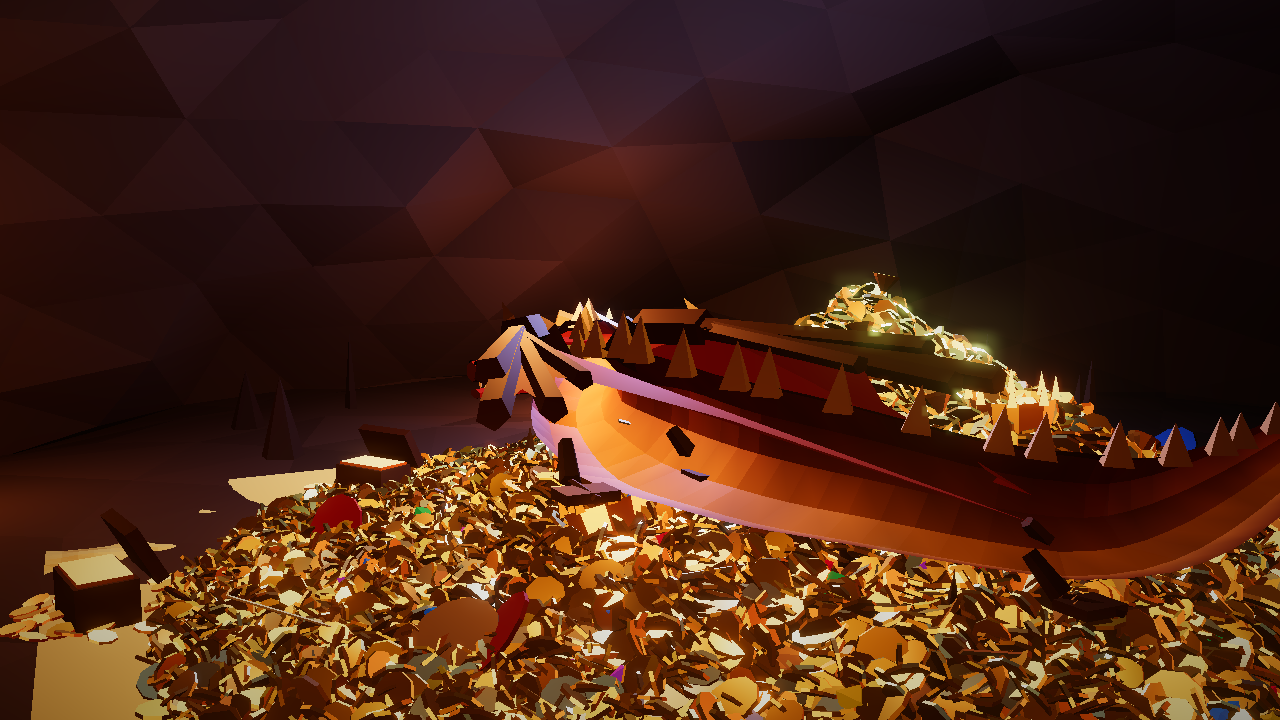
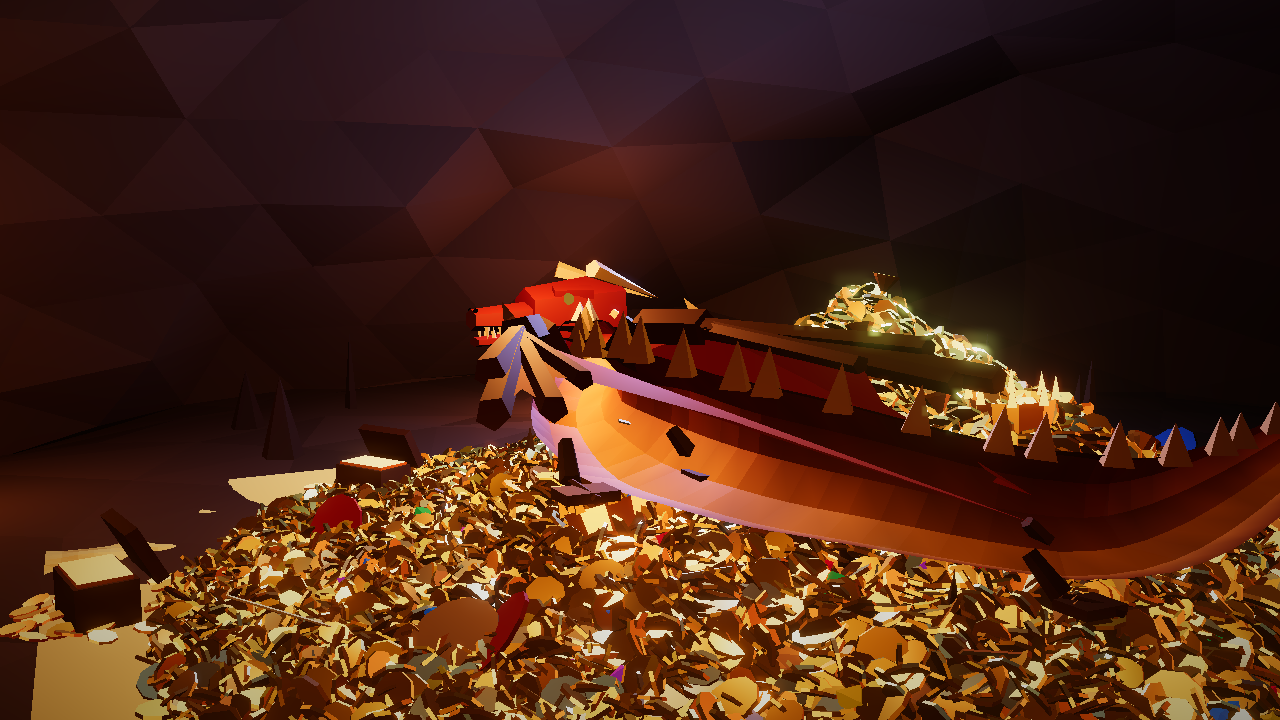
Lift dragon head during settle so it shows in the closing shot
Claude-Session: https://claude.ai/code/session_01L4WjoQeUe7EnYPaKESGSpS

Changed region(s): [[0.3438, 0.3667, 0.5, 0.4889]]

diff --git a/public/intro/intro.js b/public/intro/intro.js
@@ -46,6 +46,7 @@ function dragonParams(t) {
   if (t > 47) p.legExt = smoothstep(55.2, 56.8, t) * (1 - smoothstep(58.5, 60.0, t) * 0.8);
   p.eyeOpen = t > 59 ? 0.3 + 0.7 * smoothstep(60.4, 61.8, t) * 0 + 0.7 * smoothstep(60.8, 61.8, t) : 1;
   if (t > 58.5) p.eyeOpen = 0.08 + 0.92 * smoothstep(60.6, 61.8, t);
+  if (t > 47) p.headLift = 2.6 * smoothstep(58.5, 60.3, t);
   if (t > 59.3) p.headPitch = -0.15 * smoothstep(59.3, 61, t);
   // bank from path curvature
   const tr = t < 47 ? outdoor : cave, h0 = tr.head(Math.max(tr.t0, t - 0.5)), h1 = tr.head(Math.min(tr.t1, t + 0.5)), hm = tr.head(clamp(t, tr.t0, tr.t1));
@@ -102,7 +103,7 @@ export async function createIntro(canvas, opts = {}) {
     const ml = new THREE.PointLight(0xff9a3a, 9000, 160, 1.5); ml.position.set(0, 0, 8); mg.add(ml); world.add(mg); }
   { // final hero camera: close on the resting head
     const he = dragon.headPose(cave, 61.9, dragonParams(61.9)).pos; const k = SHOTS[5].keys;
-    k[k.length - 1] = [62, he.x + 15, he.y + 7, he.z - 4, he.x - 1, he.y + 0.6, he.z, 30]; k.splice(k.length - 1, 0, [60, he.x + 12, he.y + 6, he.z - 3, he.x, he.y + 0.5, he.z, 34]); }
+    k[k.length - 1] = [62, he.x + 13, he.y + 7.5, he.z - 3, he.x - 1, he.y + 3, he.z, 30]; k.splice(k.length - 1, 0, [60, he.x + 12, he.y + 7, he.z - 3, he.x, he.y + 2.6, he.z, 34]); }
   const dragonFill = new THREE.PointLight(0xff9a50, 0, 60, 1.6); scene.add(dragonFill);
   const dragonRim = new THREE.PointLight(0x7fa0ff, 0, 60, 1.6); scene.add(dragonRim);
   // lights

diff --git a/public/intro/dragon.js b/public/intro/dragon.js
@@ -195,6 +195,7 @@ export class Dragon {
     const hp = this.headPose(track, t, p);
     const hb = new THREE.Matrix4().makeBasis(hp.R, hp.U, hp.T); this.head.quaternion.setFromRotationMatrix(hb);
     this.head.position.copy(hp.pos).multiplyScalar(1 / S).addScaledVector(hp.T, -1.3).addScaledVector(hp.U, 0.0);
+    if (p.headLift) this.head.position.y += p.headLift / S;
     this.jaw.rotation.x = (p.jaw || 0) * 0.55 + 0.04;
     this.mouthGlow.material.color.setRGB(1, 0.35 + (p.breath || 0) * 0.4, 0.05).multiplyScalar(0.25 + (p.breath || 0) * 2.2);
     this.mouthGlow.visible = (p.jaw || 0) > 0.05;

diff --git a/cook/ROUNDS.md b/cook/ROUNDS.md
@@ -131,3 +131,7 @@ Measured (ffmpeg, cook/audio/intro-r17.wav, 62 s): integrated -23.7 LUFS, true p
 Not verified: how it sounds. Nobody has listened. WAV is git-ignored (11 MB).
 
 Round 17 closing frame: tried two side angles for the last 3 s. The head is still hidden behind the folded wing at t=60-61 (visible at t=58). Open item: raise the head or fold the near wing lower during the settle.
+
+## Round 18
+Fix: the dragon's head is lifted off the coins during the settle (headLift 2.6 m from t=58.5), so it is visible in the closing frames (t=60, 61). Closed the open item from round 17.
+Sheet: `cook/compare/r18-sheet.png` (12 frames), closing check `cook/compare/r17c-sheet.png`.
